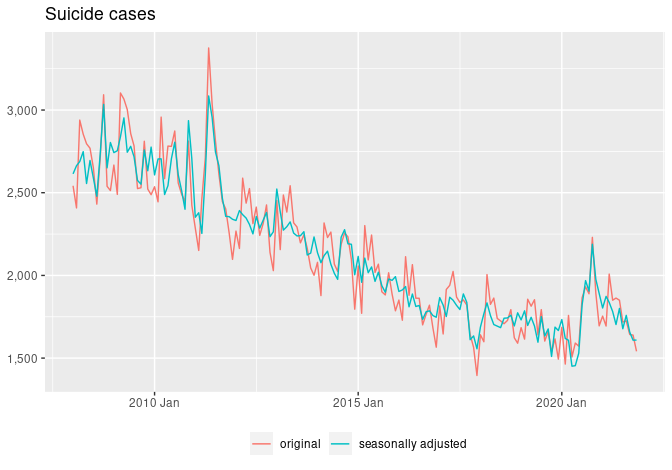
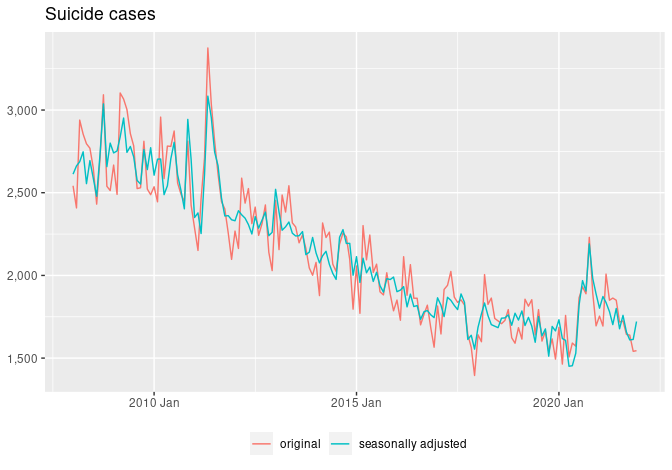
preliminary December 2021 cases

Changed region(s): [[0.125, 0.1191, 0.9688, 0.8043], [0.7812, 0.834, 0.875, 0.8638], [0.5, 0.834, 0.5625, 0.8638]]

diff --git a/README.md b/README.md
@@ -10,7 +10,7 @@ Mitsuo Shiota
 -   [Suicide cases are bouncing back, but not as fast as the program
     suggests](#suicide-cases-are-bouncing-back-but-not-as-fast-as-the-program-suggests)
 
-Updated: 2021-12-28
+Updated: 2022-01-22
 
 ## Motivation
 
